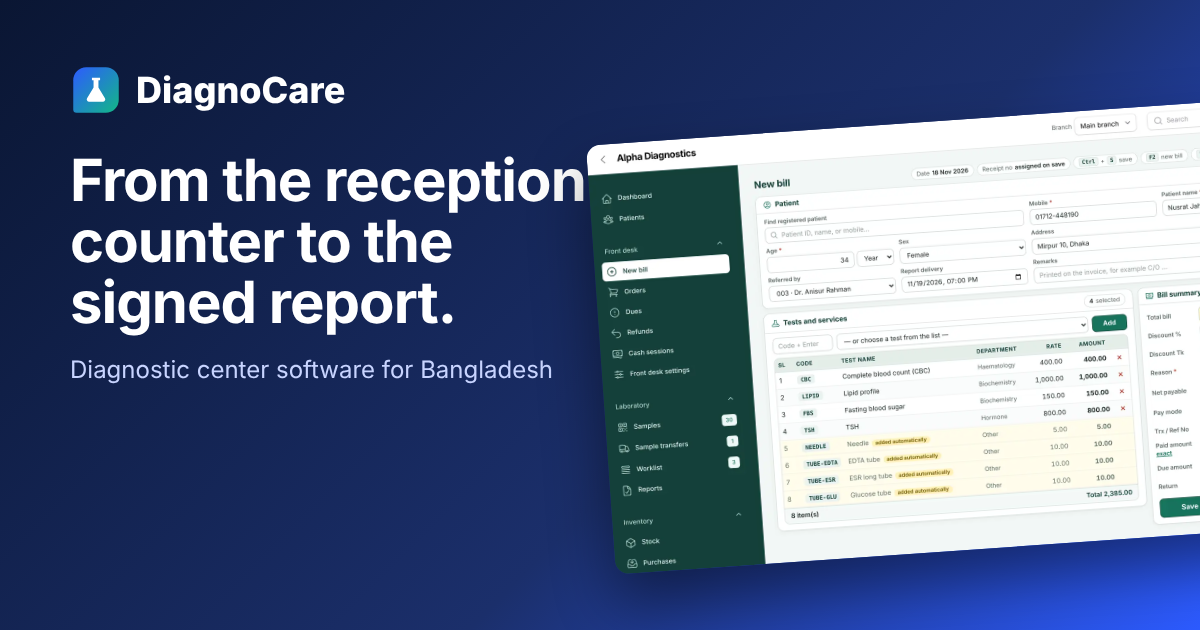
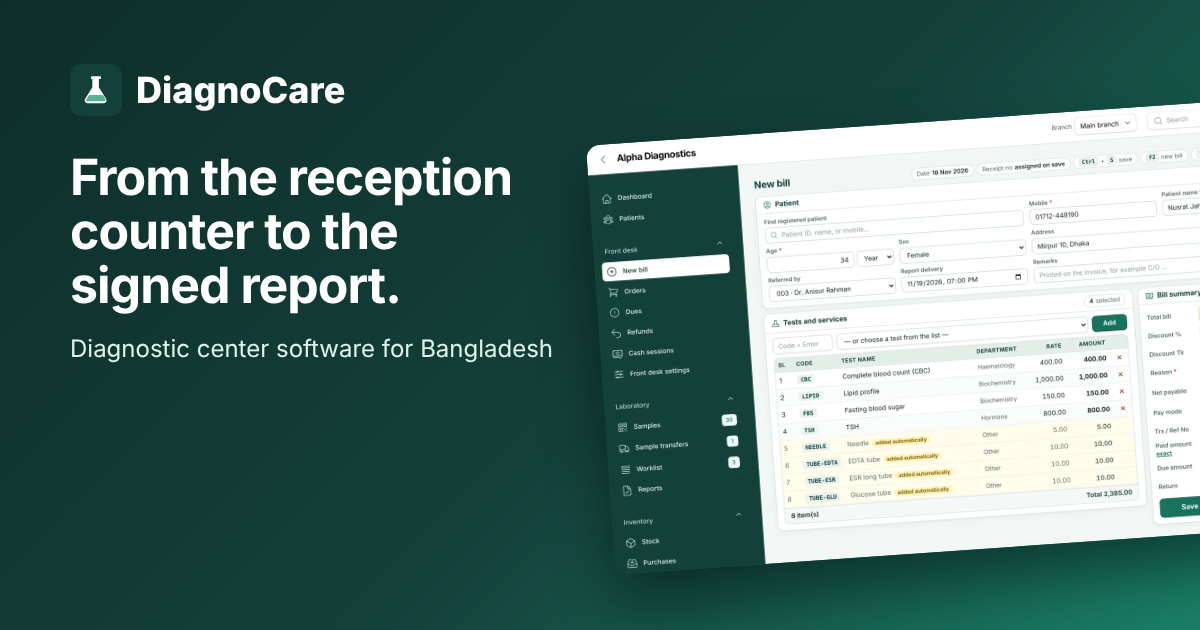
Landing page: use the software's colours, font and component style
Claude-Session: https://claude.ai/code/session_01C9rMdnHsdX3Rvad8uzwgTs

diff --git a/landingPage/css/style.css b/landingPage/css/style.css
@@ -1,26 +1,25 @@
 /* DiagnoCare landing page */
 
 :root {
-  --bg: #f4f7fb; --sf: #fff; --ink: #0a1633; --mu: #55627e; --ln: #dfe6f1;
-  --br: #2d5bff; --mint: #12b886; --rose: #ff5470; --amb: #ffb020; --nv: #0a1633;
-  --sh: 0 1px 2px rgba(10,22,51,.05), 0 24px 48px -24px rgba(45,91,255,.35);
-  --display: "Bricolage Grotesque", "Hanken Grotesk", system-ui, sans-serif;
-  --body: "Hanken Grotesk", system-ui, -apple-system, "Segoe UI", Roboto, sans-serif;
+  /* Same palette as the software (AdminPanelProvider + filament theme) */
+  --bg: #F3F7F5; --sf: #FFFFFF; --ink: #111827; --mu: #4A5F59; --ln: #DCE7E2;
+  --br: #1A7F66; --br-dark: #145F4E; --br-soft: #DDF3EA; --mint: #17735D;
+  --rose: #DC2626; --amb: #D97706; --nv: #14403A; --nv-2: #0E2E29; --nv-text: #B9D3CB;
+  --sh: 0 1px 2px rgba(16,24,40,.05), 0 1px 3px rgba(16,24,40,.08);
+  --sh-lg: 0 12px 32px -12px rgba(20,64,58,.28);
+  --display: "Inter", system-ui, -apple-system, "Segoe UI", Roboto, sans-serif;
+  --body: "Inter", system-ui, -apple-system, "Segoe UI", Roboto, sans-serif;
   color-scheme: light;
 }
-@media (prefers-color-scheme: dark) {
-  :root:not([data-theme="light"]) { --bg: #070d1f; --sf: #0f1a35; --ink: #eaf0ff; --mu: #9aa8c7; --ln: #1c2a4d; --br: #6f8cff; --nv: #0f1a35; --sh: 0 24px 48px -24px rgba(0,0,0,.7); color-scheme: dark; }
-}
-:root[data-theme="dark"] { --bg: #070d1f; --sf: #0f1a35; --ink: #eaf0ff; --mu: #9aa8c7; --ln: #1c2a4d; --br: #6f8cff; --nv: #0f1a35; --sh: 0 24px 48px -24px rgba(0,0,0,.7); color-scheme: dark; }
 
 *, *::before, *::after { box-sizing: border-box; }
 html { scroll-behavior: smooth; scroll-padding-top: 84px; -webkit-text-size-adjust: 100%; }
 body { margin: 0; background: var(--bg); color: var(--ink); font: 17px/1.6 var(--body); -webkit-font-smoothing: antialiased; overflow-x: hidden; }
 img { max-width: 100%; height: auto; display: block; }
 a { color: inherit; }
-h1, h2, h3 { font-family: var(--display); letter-spacing: -.02em; line-height: 1.08; margin: 0; }
-h2 { font-size: clamp(2rem, 4.4vw, 3.1rem); font-weight: 800; max-width: 18ch; }
-h3 { font-weight: 800; }
+h1, h2, h3 { font-family: var(--display); letter-spacing: -.025em; line-height: 1.12; margin: 0; }
+h2 { font-size: clamp(1.9rem, 4vw, 2.75rem); font-weight: 700; max-width: 18ch; }
+h3 { font-weight: 600; }
 p { margin: 0; color: var(--mu); }
 .w { max-width: 1180px; margin: 0 auto; padding: 0 20px; }
 .narrow { max-width: 860px; }
@@ -33,19 +32,22 @@ section.pt0 { padding-top: 0; }
 :focus-visible { outline: 3px solid var(--br); outline-offset: 3px; border-radius: 8px; }
 
 /* Buttons */
-.btn { display: inline-flex; align-items: center; justify-content: center; gap: 8px; padding: 14px 26px; border-radius: 999px; border: 0; background: var(--br); color: #fff; font: 600 1rem var(--body); text-decoration: none; cursor: pointer; box-shadow: 0 12px 24px -10px var(--br); transition: transform .2s, box-shadow .2s; }
-.btn:hover { transform: translateY(-2px); box-shadow: 0 16px 28px -10px var(--br); }
+.btn { display: inline-flex; align-items: center; justify-content: center; gap: 8px; padding: 14px 26px; border-radius: 8px; border: 0; background: var(--br); color: #fff; font: 600 1rem var(--body); text-decoration: none; cursor: pointer; box-shadow: var(--sh); transition: transform .2s, box-shadow .2s; }
+.btn:hover { background: var(--br-dark); transform: translateY(-1px); }
 .btn-sm { padding: 10px 18px; font-size: .95rem; }
-.btn-alt { background: var(--sf); color: var(--ink); border: 1px solid var(--ln); box-shadow: none; }
-.btn-dark { background: var(--nv); box-shadow: none; }
-.btn-line { background: transparent; border: 1.5px solid rgba(255,255,255,.7); box-shadow: none; }
+.btn-alt { background: var(--sf); color: var(--ink); border: 1px solid #C9D8D2; box-shadow: var(--sh); }
+.btn-alt:hover { background: #F0F9F6; }
+.btn-dark { background: #fff; color: var(--nv); box-shadow: none; }
+.btn-dark:hover { background: var(--br-soft); }
+.btn-line { background: transparent; border: 1px solid rgba(255,255,255,.6); box-shadow: none; }
+.btn-line:hover { background: rgba(255,255,255,.1); }
 
 /* Header */
 .top { position: sticky; top: 0; z-index: 40; background: color-mix(in srgb, var(--bg) 82%, transparent); backdrop-filter: blur(14px); -webkit-backdrop-filter: blur(14px); border-bottom: 1px solid transparent; transition: border-color .2s; }
 .top.scrolled { border-bottom-color: var(--ln); }
 .top-in { display: flex; align-items: center; gap: 28px; height: 70px; }
-.logo { display: inline-flex; align-items: center; gap: 9px; font: 800 1.4rem var(--display); text-decoration: none; color: var(--ink); }
-.logo i { width: 26px; height: 26px; border-radius: 9px 9px 9px 2px; background: linear-gradient(135deg, var(--br), var(--mint)); }
+.logo { display: inline-flex; align-items: center; gap: 9px; font: 700 1.4rem var(--display); text-decoration: none; color: var(--ink); }
+.logo i { width: 28px; height: 28px; border-radius: 8px; background: var(--nv) url("../img/favicon.svg") center / cover; }
 .nav { margin-left: auto; display: flex; gap: 26px; }
 .nav a { text-decoration: none; color: var(--mu); font-weight: 500; }
 .nav a:hover { color: var(--ink); }
@@ -73,7 +75,7 @@ section.pt0 { padding-top: 0; }
 
 /* Hero */
 .hero { position: relative; padding: 56px 0 80px; overflow: hidden; }
-.hero::before { content: ""; position: absolute; top: -18%; right: -12%; width: 820px; height: 820px; background: radial-gradient(circle, rgba(45,91,255,.18), transparent 64%); pointer-events: none; }
+.hero::before { content: ""; position: absolute; top: -18%; right: -12%; width: 820px; height: 820px; background: radial-gradient(circle, rgba(26,127,102,.14), transparent 64%); pointer-events: none; }
 .hero-in { position: relative; display: grid; grid-template-columns: .9fr 1.1fr; gap: 48px; align-items: center; }
 .kicker { font-weight: 600; color: var(--br); letter-spacing: .02em; }
 .hero h1 { font-size: clamp(2.5rem, 5.6vw, 4.4rem); font-weight: 800; max-width: 13ch; margin-top: 14px; }
@@ -91,15 +93,15 @@ section.pt0 { padding-top: 0; }
 @keyframes drip { 0% { transform: translateY(0) scale(.6); opacity: 0; } 15% { opacity: 1; transform: scale(1); } 85% { opacity: 1; } 100% { transform: translateY(80px); opacity: 0; } }
 
 .hero-shot { position: relative; padding: 0 0 60px 0; }
-.frame { margin: 0; background: var(--sf); border: 1px solid var(--ln); border-radius: 18px; overflow: hidden; box-shadow: 0 40px 80px -30px rgba(10,22,51,.45); transform: perspective(1600px) rotateY(-6deg) rotateX(2deg); transition: transform .6s ease; }
+.frame { margin: 0; background: var(--sf); border: 1px solid var(--ln); border-radius: 12px; overflow: hidden; box-shadow: 0 40px 80px -30px rgba(16,24,40,.45); transform: perspective(1600px) rotateY(-6deg) rotateX(2deg); transition: transform .6s ease; }
 .hero-shot:hover .frame { transform: perspective(1600px) rotateY(0) rotateX(0); }
 .frame-bar { display: flex; align-items: center; gap: 6px; padding: 10px 14px; background: color-mix(in srgb, var(--ln) 55%, var(--sf)); }
 .frame-bar span { width: 10px; height: 10px; border-radius: 50%; background: color-mix(in srgb, var(--ink) 22%, transparent); }
 .frame-bar em { margin-left: 10px; font-style: normal; font-size: .8rem; color: var(--mu); }
-.phone { position: absolute; right: -10px; bottom: 0; width: 26%; min-width: 120px; margin: 0; border: 7px solid #1d2a4a; border-radius: 26px; overflow: hidden; background: #fff; box-shadow: 0 30px 60px -20px rgba(10,22,51,.55); animation: float 7s ease-in-out infinite; }
+.phone { position: absolute; right: -10px; bottom: 0; width: 26%; min-width: 120px; margin: 0; border: 7px solid var(--nv-2); border-radius: 12px; overflow: hidden; background: #fff; box-shadow: 0 30px 60px -20px rgba(16,24,40,.55); animation: float 7s ease-in-out infinite; }
 @keyframes float { 50% { transform: translateY(-12px); } }
 .toasts { list-style: none; margin: 0; padding: 0; position: absolute; left: -24px; bottom: 6px; display: grid; gap: 8px; }
-.toasts li { display: flex; align-items: center; gap: 9px; background: var(--sf); border: 1px solid var(--ln); box-shadow: var(--sh); border-radius: 14px; padding: 9px 14px; font-weight: 600; font-size: .86rem; white-space: nowrap; opacity: 0; transform: translateX(-14px); animation: toast 9s ease-in-out infinite; }
+.toasts li { display: flex; align-items: center; gap: 9px; background: var(--sf); border: 1px solid var(--ln); box-shadow: var(--sh-lg); border-radius: 10px; padding: 9px 14px; font-weight: 600; font-size: .86rem; white-space: nowrap; opacity: 0; transform: translateX(-14px); animation: toast 9s ease-in-out infinite; }
 .toasts li:nth-child(2) { animation-delay: 3s; } .toasts li:nth-child(3) { animation-delay: 6s; }
 .toasts li b { color: var(--mint); }
 .toasts i { width: 9px; height: 9px; border-radius: 50%; }
@@ -123,13 +125,13 @@ section.pt0 { padding-top: 0; }
 
 /* Bento */
 .bento { display: grid; grid-template-columns: repeat(6, 1fr); gap: 16px; margin-top: 48px; }
-.bx { position: relative; background: var(--sf); border: 1px solid var(--ln); border-radius: 26px; padding: 28px; overflow: hidden; transition: transform .3s, box-shadow .3s; }
-.bx:hover { transform: translateY(-4px); box-shadow: var(--sh); }
+.bx { position: relative; background: var(--sf); border: 1px solid var(--ln); border-radius: 12px; padding: 28px; overflow: hidden; transition: transform .3s, box-shadow .3s; }
+.bx:hover { transform: translateY(-3px); box-shadow: var(--sh-lg); }
 .bx h3 { font-size: 1.4rem; margin-bottom: 8px; }
 .b1 { grid-column: span 3; grid-row: span 2; } .b2, .b3 { grid-column: span 3; } .b4, .b5, .b6 { grid-column: span 2; }
 @media (max-width: 900px) { .bento > * { grid-column: 1 / -1 !important; grid-row: auto !important; } }
 .dark { background: var(--nv); border-color: transparent; color: #fff; }
-.dark p { color: #a9b8de; }
+.dark p { color: var(--nv-text); }
 .bill-lines { margin-top: 26px; }
 .bill-lines div { display: flex; justify-content: space-between; gap: 12px; padding: 12px 0; border-top: 1px dashed var(--ln); }
 .bill-lines b { font-weight: 600; font-variant-numeric: tabular-nums; }
@@ -142,7 +144,7 @@ section.pt0 { padding-top: 0; }
 .seen .range i, .no-anim .range i { left: var(--x); }
 .bx small { color: var(--mu); }
 .amend { margin-top: 18px; display: grid; gap: 6px; font-size: .92rem; }
-.amend s { color: #7d8db5; }
+.amend s { color: #8FB3A8; }
 .amend span { color: #fff; background: rgba(255,255,255,.08); padding: 8px 12px; border-radius: 10px; border-left: 3px solid var(--amb); }
 
 /* Flow */
@@ -150,7 +152,7 @@ section.pt0 { padding-top: 0; }
 .flow::before { content: ""; position: absolute; top: 27px; left: 12%; right: 12%; height: 3px; background: repeating-linear-gradient(90deg, var(--br) 0 10px, transparent 10px 20px); transform: scaleX(0); transform-origin: left; transition: transform 1.6s ease .2s; }
 .flow.seen::before, .no-anim .flow::before { transform: scaleX(1); }
 .flow li { text-align: center; padding: 0 14px; position: relative; }
-.flow em { display: grid; place-items: center; width: 56px; height: 56px; margin: 0 auto 16px; border-radius: 50%; background: var(--sf); border: 3px solid var(--br); font: 800 1.2rem var(--display); font-style: normal; }
+.flow em { display: grid; place-items: center; width: 56px; height: 56px; margin: 0 auto 16px; border-radius: 50%; background: var(--sf); border: 3px solid var(--br); font: 700 1.2rem var(--display); font-style: normal; }
 .flow h3 { font-size: 1.2rem; margin-bottom: 6px; }
 @media (max-width: 800px) { .flow { grid-template-columns: 1fr; gap: 28px; } .flow::before { display: none; } }
 
@@ -158,18 +160,18 @@ section.pt0 { padding-top: 0; }
 .mods { display: grid; grid-template-columns: 1fr 1fr; gap: 48px; align-items: center; }
 @media (max-width: 900px) { .mods { grid-template-columns: 1fr; } }
 .switches { margin-top: 28px; }
-.sw { display: flex; align-items: center; gap: 14px; width: 100%; margin-bottom: 10px; padding: 14px 18px; background: var(--sf); border: 1px solid var(--ln); border-radius: 18px; font: 600 1rem var(--body); color: var(--ink); text-align: left; cursor: pointer; }
+.sw { display: flex; align-items: center; gap: 14px; width: 100%; margin-bottom: 10px; padding: 14px 18px; background: var(--sf); border: 1px solid var(--ln); border-radius: 10px; font: 600 1rem var(--body); color: var(--ink); text-align: left; cursor: pointer; }
 .sw small { margin-left: auto; font-weight: 400; color: var(--mu); }
 .sw .t { position: relative; flex: none; width: 44px; height: 26px; border-radius: 99px; background: var(--ln); transition: background .25s; }
 .sw .t::after { content: ""; position: absolute; top: 3px; left: 3px; width: 20px; height: 20px; border-radius: 50%; background: #fff; box-shadow: 0 2px 4px rgba(0,0,0,.25); transition: transform .25s; }
-.sw[aria-pressed="true"] .t { background: var(--mint); }
+.sw[aria-pressed="true"] .t { background: var(--br); }
 .sw[aria-pressed="true"] .t::after { transform: translateX(18px); }
 .sw:disabled { opacity: .45; cursor: not-allowed; }
-.menu-card { background: var(--nv); color: #fff; border-radius: 28px; padding: 28px; }
-.menu-card h3 { font-size: 1.05rem; color: #a9b8de; font-weight: 600; margin-bottom: 16px; font-family: var(--body); letter-spacing: 0; }
-.menu-card div { padding: 13px 16px; border-radius: 12px; margin-bottom: 8px; background: #1a2a52; font-weight: 500; transition: opacity .3s, transform .3s; }
+.menu-card { background: var(--nv); color: #fff; border-radius: 12px; padding: 28px; }
+.menu-card h3 { font-size: 1.05rem; color: var(--nv-text); font-weight: 600; margin-bottom: 16px; font-family: var(--body); letter-spacing: 0; }
+.menu-card div { padding: 13px 16px; border-radius: 12px; margin-bottom: 8px; background: var(--nv-2); font-weight: 500; transition: opacity .3s, transform .3s; }
 .menu-card div.off { opacity: .22; text-decoration: line-through; transform: translateX(8px); }
-.menu-card p { margin-top: 14px; color: #a9b8de; }
+.menu-card p { margin-top: 14px; color: var(--nv-text); }
 
 /* Analyzer pipe */
 .split { display: grid; grid-template-columns: 1.1fr .9fr; gap: 48px; align-items: center; }
@@ -183,13 +185,13 @@ section.pt0 { padding-top: 0; }
 @keyframes packet { to { left: 100%; } }
 
 /* Owner */
-.owner { display: grid; grid-template-columns: 1fr auto; gap: 48px; align-items: center; background: var(--nv); color: #fff; border-radius: 40px; padding: 60px 64px 0; overflow: hidden; }
+.owner { display: grid; grid-template-columns: 1fr auto; gap: 48px; align-items: center; background: var(--nv); color: #fff; border-radius: 16px; padding: 60px 64px 0; overflow: hidden; }
 .owner > div { padding-bottom: 60px; }
 .owner h2 { max-width: 16ch; }
-.owner .lead { color: #a9b8de; margin-bottom: 26px; }
-.owner-phone { width: 270px; border: 9px solid #243558; border-bottom: 0; border-radius: 38px 38px 0 0; align-self: end; transform: translateY(30px); transition: transform 1s cubic-bezier(.2,.7,.2,1) .2s; }
+.owner .lead { color: var(--nv-text); margin-bottom: 26px; }
+.owner-phone { width: 270px; border: 9px solid var(--nv-2); border-bottom: 0; border-radius: 38px 38px 0 0; align-self: end; transform: translateY(30px); transition: transform 1s cubic-bezier(.2,.7,.2,1) .2s; }
 .owner.seen .owner-phone, .no-anim .owner-phone { transform: none; }
-@media (max-width: 820px) { .owner { grid-template-columns: 1fr; padding: 38px 26px 0; border-radius: 30px; } .owner > div { padding-bottom: 0; } .owner-phone { margin: 0 auto; width: 230px; } }
+@media (max-width: 820px) { .owner { grid-template-columns: 1fr; padding: 38px 26px 0; border-radius: 14px; } .owner > div { padding-bottom: 0; } .owner-phone { margin: 0 auto; width: 230px; } }
 
 /* Safety */
 .two { display: grid; grid-template-columns: 1fr 1fr; gap: 56px; }
@@ -203,13 +205,13 @@ section.pt0 { padding-top: 0; }
 /* Plans */
 .plans { display: grid; grid-template-columns: repeat(3, 1fr); gap: 18px; margin-top: 44px; align-items: stretch; }
 @media (max-width: 900px) { .plans { grid-template-columns: 1fr; max-width: 480px; } }
-.plan { position: relative; display: flex; flex-direction: column; background: var(--sf); border: 1px solid var(--ln); border-radius: 26px; padding: 30px 26px; }
+.plan { position: relative; display: flex; flex-direction: column; background: var(--sf); border: 1px solid var(--ln); border-radius: 12px; padding: 30px 26px; }
 .plan .ticks { flex: 1; margin-bottom: 22px; }
 .plan h3 { font-size: 1.5rem; }
-.price { font: 800 1.5rem var(--display); color: var(--ink); margin-top: 10px; }
+.price { font: 700 1.5rem var(--display); color: var(--ink); margin-top: 10px; }
 .for { margin-top: 2px; }
-.pop { border: 2px solid var(--br); box-shadow: var(--sh); }
-.tag { position: absolute; top: -13px; left: 24px; background: var(--amb); color: #0a1633; font-weight: 700; font-size: .8rem; padding: 3px 12px; border-radius: 999px; }
+.pop { border: 2px solid var(--br); box-shadow: var(--sh-lg); }
+.tag { position: absolute; top: -12px; left: 24px; background: var(--br-soft); color: var(--nv); border: 1px solid #BCE5D6; font-weight: 600; font-size: .8rem; padding: 2px 10px; border-radius: 6px; }
 
 /* FAQ */
 .faq { margin-top: 30px; }
@@ -223,17 +225,17 @@ details p { margin-top: 10px; max-width: 64ch; }
 details[open] p { animation: pop .35s ease; }
 
 /* CTA */
-.cta-box { display: grid; grid-template-columns: 1fr 1fr; gap: 40px; align-items: center; background: linear-gradient(135deg, #2d5bff, #6a3dff); border-radius: 40px; padding: 60px; color: #fff; }
-.cta-box p, .cta-box .lead { color: #dbe3ff; }
+.cta-box { display: grid; grid-template-columns: 1fr 1fr; gap: 40px; align-items: center; background: linear-gradient(135deg, #14403A, #17735D); border-radius: 16px; padding: 60px; color: #fff; }
+.cta-box p, .cta-box .lead { color: #DDF3EA; }
 .cta-box h2 { max-width: 13ch; }
 .contact { margin-top: 22px; line-height: 1.9; }
 .contact a { color: #fff; font-weight: 600; }
-@media (max-width: 820px) { .cta-box { grid-template-columns: 1fr; padding: 36px 22px; border-radius: 30px; } }
+@media (max-width: 820px) { .cta-box { grid-template-columns: 1fr; padding: 36px 22px; border-radius: 14px; } }
 form { display: grid; gap: 12px; }
 form label { display: grid; gap: 6px; font-weight: 600; font-size: .95rem; color: #fff; }
-form input, form select { width: 100%; padding: 14px 16px; border: 0; border-radius: 14px; background: #fff; color: #0a1633; font: inherit; font-weight: 400; }
-form input.bad { box-shadow: 0 0 0 3px #ffb4c0; }
-.err { color: #ffe0e6; font-weight: 600; }
+form input, form select { width: 100%; padding: 12px 14px; border: 0; border-radius: 8px; background: #fff; color: #111827; font: inherit; font-weight: 400; }
+form input.bad { box-shadow: 0 0 0 3px #FCA5A5; }
+.err { color: #FECACA; font-weight: 600; }
 .form-btns { display: flex; flex-wrap: wrap; gap: 10px; margin-top: 4px; }
 
 /* Footer */
@@ -251,27 +253,27 @@ form input.bad { box-shadow: 0 0 0 3px #ffb4c0; }
 @keyframes pop { from { opacity: 0; transform: translateY(14px) scale(.98); } }
 
 /* Software views slider */
-.slider { position: relative; margin-top: 44px; background: var(--sf); border: 1px solid var(--ln); border-radius: 28px; padding: 14px; box-shadow: var(--sh); }
-.slides { display: flex; overflow-x: auto; scroll-snap-type: x mandatory; scroll-behavior: smooth; border-radius: 18px; scrollbar-width: none; }
+.slider { position: relative; margin-top: 44px; background: var(--sf); border: 1px solid var(--ln); border-radius: 12px; padding: 14px; box-shadow: var(--sh); }
+.slides { display: flex; overflow-x: auto; scroll-snap-type: x mandatory; scroll-behavior: smooth; border-radius: 12px; scrollbar-width: none; }
 .slides::-webkit-scrollbar { display: none; }
 .slide { flex: 0 0 100%; margin: 0; scroll-snap-align: center; }
-.slide img { width: 100%; border-radius: 16px; border: 1px solid var(--ln); aspect-ratio: 16 / 10; object-fit: contain; background: #f3f6f4; }
+.slide img { width: 100%; border-radius: 8px; border: 1px solid var(--ln); aspect-ratio: 16 / 10; object-fit: contain; background: #f3f6f4; }
 .slide figcaption { padding: 16px 8px 6px; color: var(--mu); }
-.slide figcaption b { display: block; color: var(--ink); font: 800 1.25rem var(--display); margin-bottom: 2px; }
+.slide figcaption b { display: block; color: var(--ink); font: 700 1.25rem var(--display); margin-bottom: 2px; }
 .nav-btn { position: absolute; top: calc(50% - 60px); width: 48px; height: 48px; border-radius: 50%; border: 1px solid var(--ln); background: var(--sf); color: var(--ink); font-size: 1.8rem; line-height: 1; cursor: pointer; box-shadow: var(--sh); display: grid; place-items: center; transition: transform .2s; }
 .nav-btn:hover { transform: scale(1.08); }
 .prev { left: -10px; } .next { right: -10px; }
 .dots { display: flex; justify-content: center; gap: 8px; padding: 6px 0 4px; }
 .dots button { width: 10px; height: 10px; padding: 0; border-radius: 99px; border: 0; background: var(--ln); cursor: pointer; transition: width .3s, background .3s; }
-.dots button[aria-selected="true"] { width: 34px; background: var(--br); }
-@media (max-width: 640px) { .nav-btn { display: none; } .slider { padding: 8px; border-radius: 20px; } }
+.dots button[aria-selected="true"] { width: 30px; background: var(--br); }
+@media (max-width: 640px) { .nav-btn { display: none; } .slider { padding: 8px; border-radius: 12px; } }
 
 /* All features */
 .filters { display: flex; flex-wrap: wrap; gap: 8px; margin-top: 30px; }
-.chip { border: 1px solid var(--ln); background: var(--sf); color: var(--mu); padding: 9px 16px; border-radius: 999px; font: 600 .95rem var(--body); cursor: pointer; transition: background .2s, color .2s; }
-.chip.on { background: var(--ink); color: var(--bg); border-color: var(--ink); }
+.chip { border: 1px solid var(--ln); background: var(--sf); color: var(--mu); padding: 8px 14px; border-radius: 8px; font: 600 .95rem var(--body); cursor: pointer; transition: background .2s, color .2s; }
+.chip.on { background: var(--br); color: #fff; border-color: var(--br); }
 .fgroups { display: grid; gap: 18px; margin-top: 26px; }
-.fg { background: var(--sf); border: 1px solid var(--ln); border-radius: 26px; padding: 30px; }
+.fg { background: var(--sf); border: 1px solid var(--ln); border-radius: 12px; padding: 30px; }
 .fg[hidden] { display: none; }
 .fg-head { display: flex; flex-wrap: wrap; align-items: baseline; gap: 6px 16px; margin-bottom: 6px; }
 .fg-tag { font-weight: 600; color: var(--br); font-size: .92rem; }
@@ -282,17 +284,17 @@ form input.bad { box-shadow: 0 0 0 3px #ffb4c0; }
 .shot { position: relative; padding: 0; border: 1px solid var(--ln); border-radius: 14px; overflow: hidden; background: #f3f6f4; cursor: zoom-in; text-align: left; }
 .shot img { width: 100%; aspect-ratio: 3 / 2; object-fit: cover; object-position: top left; transition: transform .4s ease; }
 .shot:hover img { transform: scale(1.05); }
-.shot span { position: absolute; left: 8px; bottom: 8px; background: rgba(10,22,51,.82); color: #fff; font-size: .8rem; font-weight: 600; padding: 3px 9px; border-radius: 99px; }
+.shot span { position: absolute; left: 8px; bottom: 8px; background: rgba(20,64,58,.9); color: #fff; font-size: .78rem; font-weight: 600; padding: 2px 8px; border-radius: 6px; }
 .js .fg.rv.seen .shot { animation: pop .5s ease both; }
 .js .fg.rv.seen .shot:nth-child(2) { animation-delay: .06s; } .js .fg.rv.seen .shot:nth-child(3) { animation-delay: .12s; }
 .js .fg.rv.seen .shot:nth-child(4) { animation-delay: .18s; } .js .fg.rv.seen .shot:nth-child(5) { animation-delay: .24s; } .js .fg.rv.seen .shot:nth-child(6) { animation-delay: .3s; }
 
-.lightbox { width: min(1200px, 94vw); max-height: 92vh; padding: 14px; border: 0; border-radius: 18px; background: var(--sf); color: var(--ink); }
+.lightbox { width: min(1200px, 94vw); max-height: 92vh; padding: 14px; border: 0; border-radius: 12px; background: var(--sf); color: var(--ink); }
 .lightbox::backdrop { background: rgba(5,10,25,.75); backdrop-filter: blur(3px); }
 .lightbox[open] { animation: pop .3s ease; }
 .lightbox img { width: 100%; max-height: 80vh; object-fit: contain; border-radius: 10px; }
 .lightbox p { margin-top: 10px; text-align: center; }
-.lb-close { position: absolute; top: 10px; right: 12px; width: 38px; height: 38px; border-radius: 50%; border: 0; background: var(--ink); color: var(--bg); font-size: 1.5rem; cursor: pointer; }
+.lb-close { position: absolute; top: 10px; right: 12px; width: 38px; height: 38px; border-radius: 8px; border: 0; background: var(--nv); color: #fff; font-size: 1.5rem; cursor: pointer; }
 
 /* Simple pages */
 .page { padding: 56px 0 80px; }

diff --git a/landingPage/index.html b/landingPage/index.html
@@ -7,7 +7,7 @@
   <meta name="description" content="Billing, lab results, verified reports and analyzer connection for diagnostic centers in Bangladesh. Prints on your letterhead, takes bKash and Nagad.">
   <link rel="canonical" href="https://www.example.com.bd/">
   <meta name="robots" content="index, follow, max-image-preview:large, max-snippet:-1">
-  <meta name="theme-color" content="#0a1633">
+  <meta name="theme-color" content="#14403A">
   <meta name="author" content="Softorio">
   <meta name="geo.region" content="BD">
   <meta name="geo.placename" content="Dhaka">
@@ -32,7 +32,7 @@
   <link rel="manifest" href="site.webmanifest">
   <link rel="preconnect" href="https://fonts.googleapis.com">
   <link rel="preconnect" href="https://fonts.gstatic.com" crossorigin>
-  <link rel="stylesheet" href="https://fonts.googleapis.com/css2?family=Bricolage+Grotesque:opsz,wght@12..96,600;12..96,800&family=Hanken+Grotesk:wght@400;500;600&display=swap">
+  <link rel="stylesheet" href="https://fonts.googleapis.com/css2?family=Inter:wght@400;500;600;700&display=swap">
   <link rel="preload" as="image" href="img/screen-billing.webp" fetchpriority="high">
   <link rel="stylesheet" href="css/style.css">
   <script>document.documentElement.classList.add('js')</script>
@@ -161,7 +161,7 @@
             <span class="tube" style="--c:#7c4dff;--h:44%;--d:-1.2s"><b></b></span>
             <span class="tube" style="--c:#12b886;--h:70%;--d:-2.4s"><b></b></span>
             <span class="tube" style="--c:#ffb020;--h:52%;--d:-3.1s"><b></b></span>
-            <span class="tube" style="--c:#2d5bff;--h:58%;--d:-0.6s"><b></b></span>
+            <span class="tube" style="--c:#3B82F6;--h:58%;--d:-0.6s"><b></b></span>
           </div>
         </div>
 

diff --git a/landingPage/README.md b/landingPage/README.md
@@ -2,7 +2,7 @@
 
 Static marketing site for the diagnostic software. Plain HTML, CSS and
 JavaScript: no build step and no framework. The only outside request is
-Google Fonts (Bricolage Grotesque and Hanken Grotesk, both under the SIL Open
+Google Fonts (Inter, the same typeface as the software, under the SIL Open
 Font License); the page falls back to system fonts if they do not load. It is
 separate from the Laravel application and shares no code with it.
 
